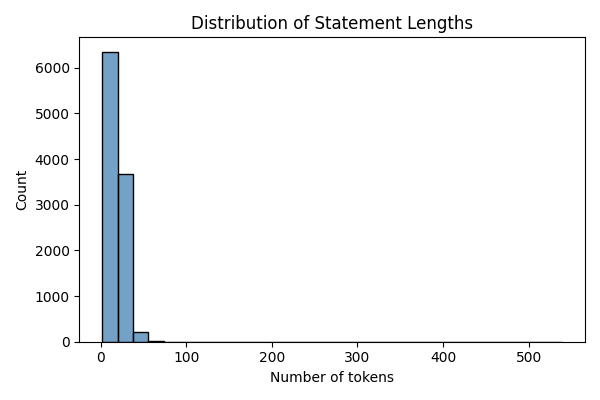
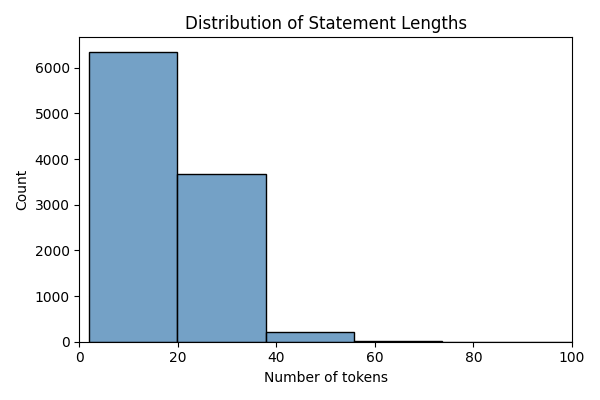
graph modified

diff --git a/prepare_data.py b/prepare_data.py
@@ -59,6 +59,7 @@ sns.histplot(train["len"], bins=30, color="steelblue")
 plt.title("Distribution of Statement Lengths")
 plt.xlabel("Number of tokens")
 plt.ylabel("Count")
+plt.xlim(0, 100)       # 限制 X 轴范围
 plt.tight_layout()
 plt.savefig("len_dist.png")
 plt.close()
